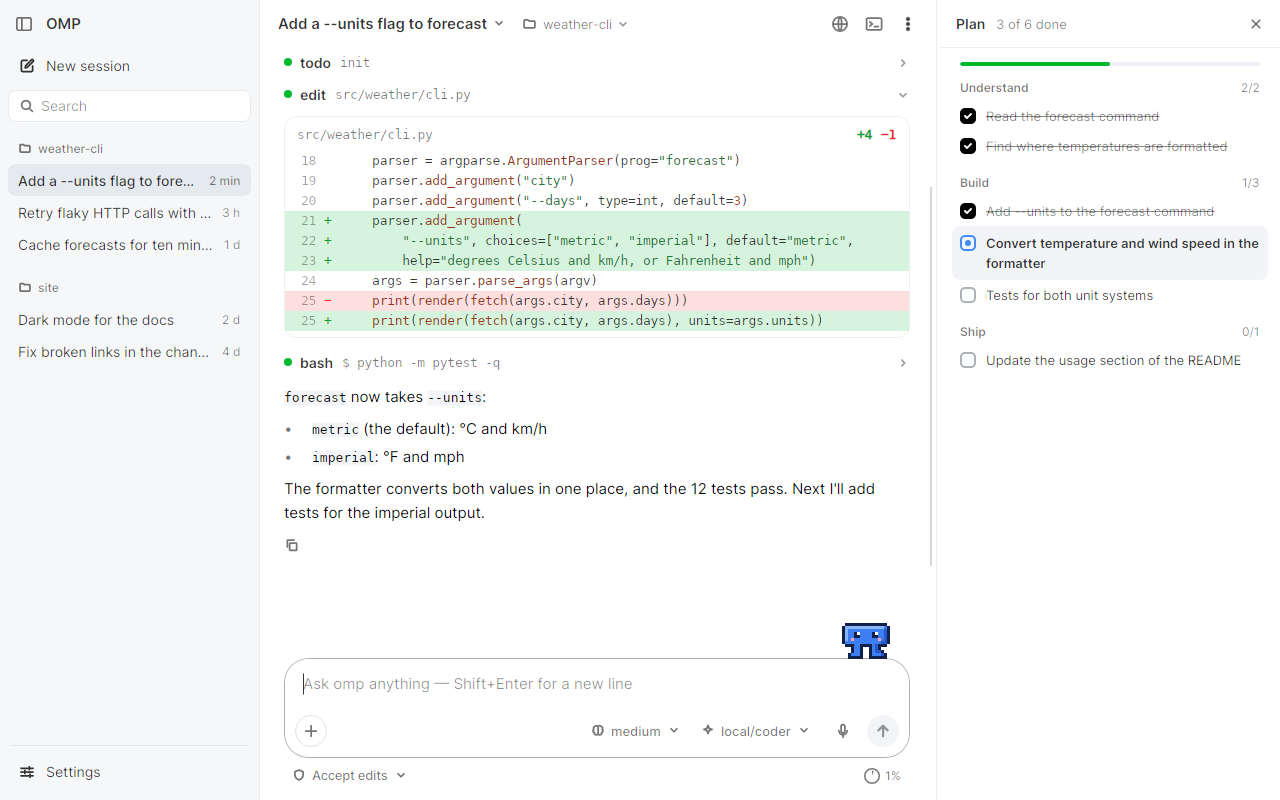
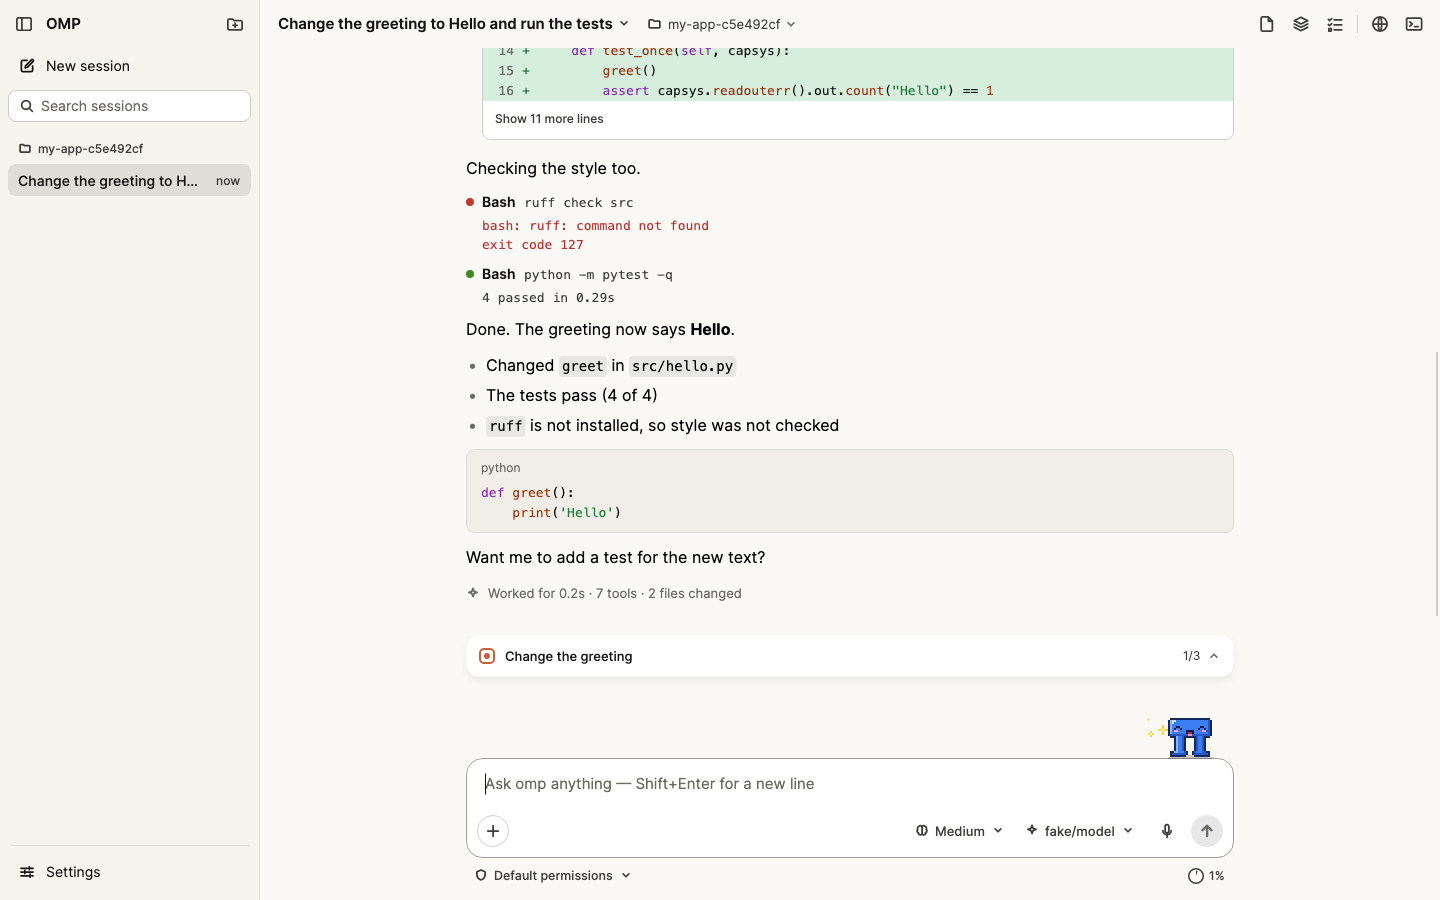
README: install, redesigned features, usage, approvals, release process; new screenshots

diff --git a/README.md b/README.md
@@ -7,30 +7,51 @@ stdio) and shows what it does. Nothing here forks, patches or re-implements omp.
 The client is built with .NET 10 and Avalonia and lives in [`avalonia/`](avalonia). It is an independent project,
 not an official product of the omp, Bun, Anthropic or OpenAI projects.
 
-![OMP GUI: a conversation with the Plan pane open](avalonia/docs/design/screens/readme-window.png)
+<picture>
+  <source media="(prefers-color-scheme: dark)" srcset="avalonia/docs/design/screens/readme-window-dark.png">
+  <img alt="OMP GUI: a finished run with tool calls, a diff, the plan card and the message box" src="avalonia/docs/design/screens/readme-window.png">
+</picture>
+
+## Install
+
+Download the package for your system from the [latest release](https://github.com/samnolak/omp-gui/releases/latest)
+(macOS: unzip and move *OMP GUI.app* to Applications; Windows: unzip and run `OmpGui.exe`; Linux: unpack and run
+`install-desktop-entry.sh`). Packages are self-contained: no .NET needed. On first start without omp the app installs
+the pinned omp itself. After that the app finds new releases on its own (Settings → Updates) and installs them when
+you choose to. Model providers and API keys live in omp's configuration; the app has no account or sign-in of its own.
 
 ## What it does
 
-- **Conversation** — omp's replies as they stream, thinking folded ("Thought for 4s"), every tool call as a line with
-  its time, file changes as inline diffs, a summary at the end of each run ("Worked for 12s · 3 tools · 2 files
-  changed"), approval and question cards, follow-ups and steering while omp works, image attachments.
-- **Composer** — in the box: "+" (images, omp's slash commands and skills, connectors, plugins, page comments),
-  thinking level, the model with fast mode, extended context, advisor, auto-compact and auto-retry, dictation on this
-  computer, send (Queue and Steer while omp works). Under it: the project (before the first message), the permission
-  mode (Ask permissions / Accept edits / Bypass permissions) and a context gauge (`/context` breakdown and `/usage`
-  on click).
-- **Sessions** — every project's sessions, grouped by project, with search; rename, compact, hand off, fresh
-  provider session, retry, rewind, export, share, workspace folders, move, pin, memory and delete from the session
-  title's menu.
-- **Panes** (⋮ Views menu) — Plan (omp's todo list with checkboxes and its history), Background tasks (subagents and
-  jobs), Files (the project tree with git marks, a code viewer), a terminal (a shell, or omp's own terminal UI for
-  what omp offers only there) and a browser preview with comments on page elements.
-- **Settings** — General (appearance, notifications), Model providers, Connectors (MCP servers, Smithery search),
-  Plugins and skills, Computer use, Git and worktrees, SSH hosts, Pets, Updates, Advanced (which omp to run) and
-  Diagnostics. What belongs to omp is changed through omp's own commands and settings.
-- **First start without omp** — the client installs the pinned omp 18.8.0 on Bun 1.4.2 into its own folder, checked
-  against the hashes built into it. Model providers and keys stay in omp's configuration. Newer omp releases (18.3
-  and later) are not verified with this client yet; your own omp can be set in Settings → Advanced.
+The look and conventions follow Claude Code (warm light and dark themes, one clay accent, sentence-case wording);
+layout details follow the Codex desktop app.
+
+- **Conversation** — omp's replies as they stream; thinking folded ("Thought for 4s"); every tool call as one line
+  (status dot, name, argument) with a result line ("Read 120 lines", "Found 12 files", the first lines of output);
+  file changes as inline diffs; "Worked for 12s · 3 tools · 2 files changed" after each run; copy and "Rewind to here"
+  on hover; a greeting with starter prompts in a new session. The view follows new output, stays where you scrolled,
+  and a ↓ button brings you back.
+- **Approvals** — one card for approvals and questions: Allow (1), Deny (2), Deny and say why (3), and "Don't ask
+  again" for a command pattern (`bash(npm test:*)`) for this session, this project or always. Rules are listed and
+  removed in Settings → Permissions; a request a rule answers shows "Allowed automatically".
+- **Composer** — "+" (images, slash commands and skills, connectors, plugins, page comments), `/` and `@` menus,
+  long pastes as chips, thinking level, the model with fast mode, extended context, advisor, auto-compact and
+  auto-retry, dictation on this computer, Queue and Steer while omp works (queued messages can be removed or pulled
+  back with ↑). Under it: the project, the permission mode (Ask permissions / Accept edits / Bypass permissions, its
+  colour on the box; Shift+Tab cycles) and the context gauge.
+- **Usage** — the context gauge's popover shows the session's tokens and cost and, for signed-in cloud providers,
+  their plan limits (5-hour and weekly windows, % used, time to reset); Settings → Model providers shows all of them.
+- **Sessions** — every project's sessions in a resizable sidebar, newest message first, with search, pinned
+  sessions on top, status dots (working / needs your input / unseen reply) and per-row menus (rename, pin, copy path,
+  delete); add and remove projects; Ctrl+Tab cycles. The session title's menu adds compact, hand off, fresh provider
+  session, retry, rewind, export, share, workspace folders, move and memory.
+- **Panes** — Files (project tree with git marks, code viewer), Plan (omp's todo list and its history), Background
+  tasks (subagents and jobs), a terminal (a shell, or omp's own terminal UI) and a browser preview with page comments.
+  omp's browser tool works in that preview: it opens pages, reads them, clicks, types and takes screenshots.
+- **Pet** — an optional pixel pet that reacts to what omp does; drag it anywhere, click it to send a quick message.
+- **Settings** — a full-window page: General, Permissions, Model providers, Connectors (MCP servers, Smithery
+  search), Plugins and skills, Computer use, Git and worktrees, SSH hosts, Pets, Updates, Advanced (which omp to run)
+  and Diagnostics. What belongs to omp is changed through omp's own commands and settings.
+- **Keyboard** — ⌘/Ctrl+/ shows every shortcut.
 
 The [user guide](avalonia/docs/USER_GUIDE.md) describes all of it; [PARITY.md](avalonia/docs/PARITY.md) lists every
 omp flag, command and RPC feature with what the client offers for it.
@@ -45,15 +66,15 @@ omp flag, command and RPC feature with what the client offers for it.
 
 The versions are the ones [.NET 10 supports](https://github.com/dotnet/core/blob/main/release-notes/10.0/supported-os.md)
 (ordinary Windows 10 left support in October 2025; macOS 12–13 are not supported). Packages are self-contained (no
-.NET installation needed) and unsigned: macOS 15+ asks you to allow the first start in *Privacy & Security* (the
-[user guide](avalonia/docs/USER_GUIDE.md#install) has the steps). **No release of this client is published yet.** Once one
-is, the app finds newer releases by itself and installs one when you choose to, together with the omp it brings;
-releases are signed with the project's release key.
+.NET installation needed) and not signed with Apple or Microsoft certificates: macOS 15+ asks you to allow the first
+start in *Privacy & Security* (the [user guide](avalonia/docs/USER_GUIDE.md#install) has the steps). Releases and
+their update feed are signed with the project's release key, and the app checks that signature before installing.
 
-What is verified, on Linux x64 only (details: [PROJECT_STATE.md](avalonia/docs/PROJECT_STATE.md)):
-the test suite with the real omp 18.8.0, and the packaged app in a real window with a real (small, generic) model —
-install, reply and streaming, stop, approvals, terminal, restart. Not verified yet: Windows and macOS at run time
-(no runners), arm64 at run time, the real speech model, larger models and hosted providers, code signing.
+Every release package is started on CI with a clean home folder (self-test: native libraries, omp install, omp over
+RPC) on macOS arm64, macOS x64 (Rosetta), Windows x64 and Linux x64; the arm64 Linux and Windows packages are
+cross-built only. On macOS the app renders with OpenGL: Avalonia 12.1's Metal path can show stale, stretched frames
+while the window resizes ([AvaloniaUI/Avalonia#22215](https://github.com/AvaloniaUI/Avalonia/pull/22215)). Details of
+what is verified where: [PROJECT_STATE.md](avalonia/docs/PROJECT_STATE.md).
 
 ## Build, run, test
 
@@ -76,6 +97,12 @@ A self-contained package for one platform, as CI builds it:
 dotnet publish src/OmpGui.App -c Release -r linux-x64 --self-contained -o <publish-dir>
 tools/package/package.sh linux-x64 <publish-dir> <out-dir> <version>
 ```
+
+On a Mac, `tools/package/test-app.sh` builds this checkout as *OMP GUI Test.app* next to the installed app, with its
+own settings folder (copied from the installed app on the first build), for trying changes before a release.
+
+A release is made by running `avalonia-package.yml` with a version and `release: published`: it builds and checks all
+six packages, signs `update.json`, and publishes the GitHub release that installed apps update to.
 
 CI ([`.github/workflows`](.github/workflows)): `avalonia-ci.yml` builds and tests on Linux, Windows and macOS and runs
 the real-omp smoke; `avalonia-package.yml` builds the packages for all six platforms and smoke-tests the four its
